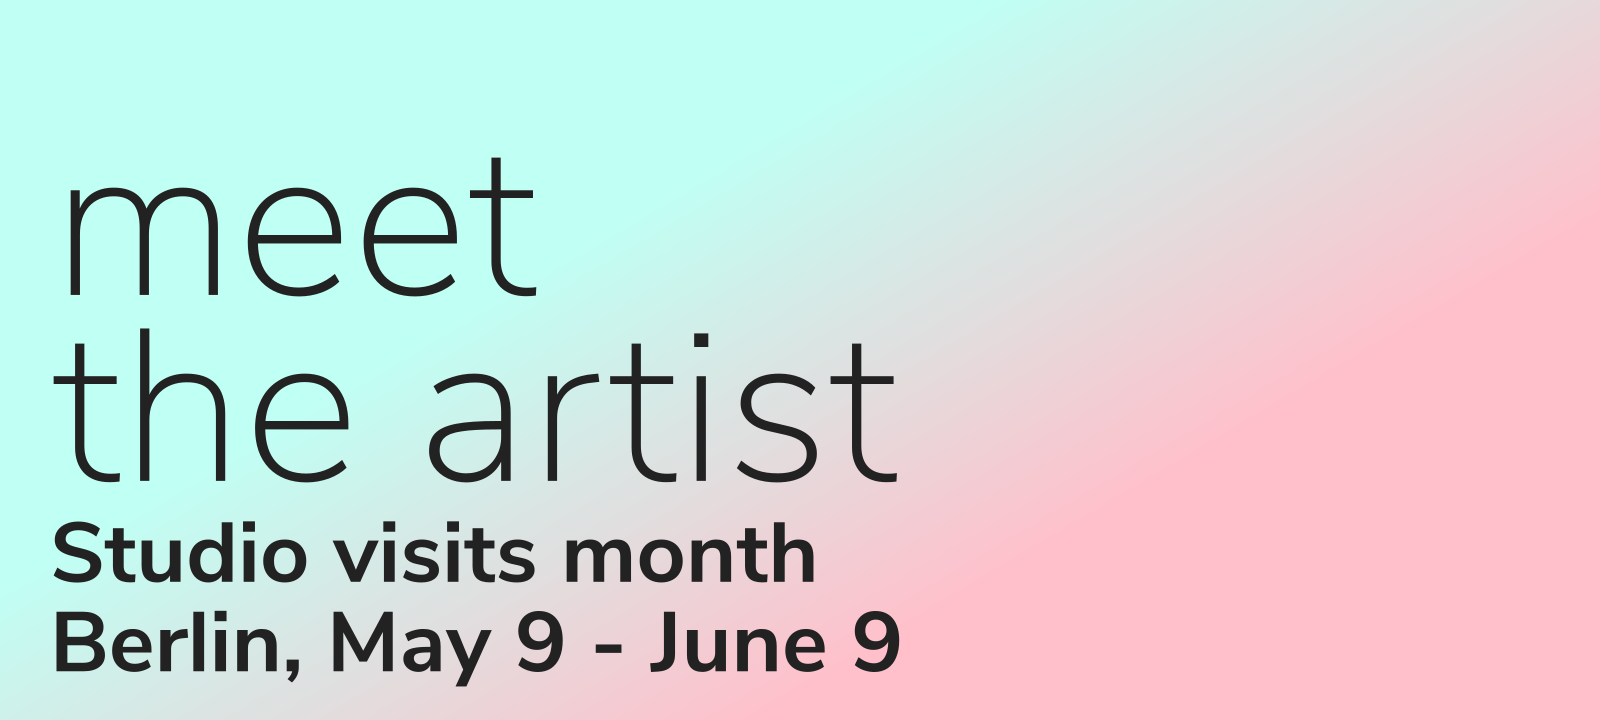
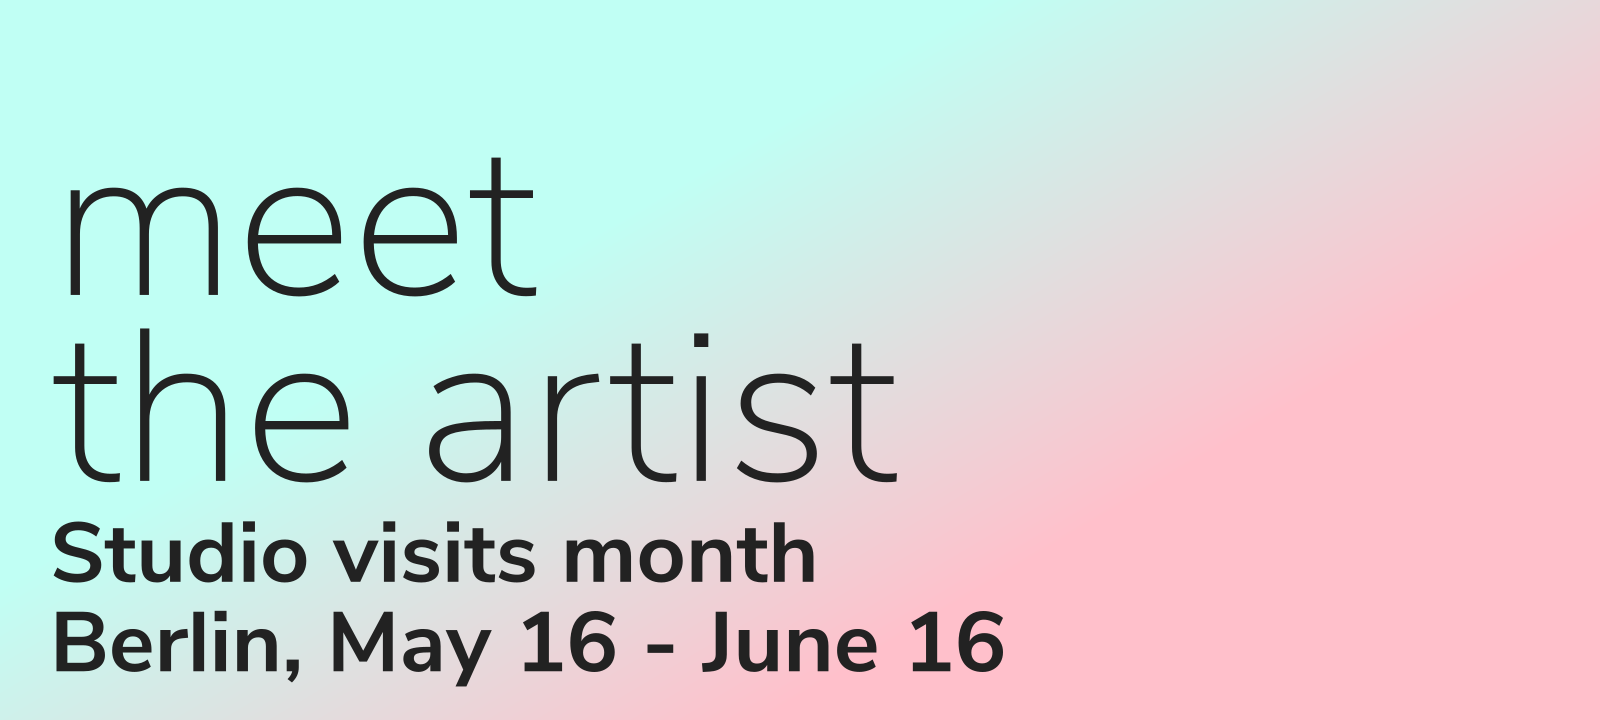
new dates and hasQuery bug fix

Changed region(s): [[0.3125, 0.825, 0.625, 0.9472]]

diff --git a/components/StudiosFilter/index.js b/components/StudiosFilter/index.js
@@ -11,15 +11,15 @@ import styles from "./index.module.scss";
 import StudiosFeatured from "components/StudiosFeatured";
 
 const StudiosFilter = ({ studios }) => {
+  const { hasQuery, searchStudios } = useStudios();
 
-  const { query, searchStudios } = useStudios();
-
-  const [visibleStudios, setVisibleStudios] =
-    useState(query ? searchStudios : studios);
+  const [visibleStudios, setVisibleStudios] = useState(
+    hasQuery ? searchStudios : studios
+  );
 
   useEffect(() => {
-    setVisibleStudios(query ? searchStudios : studios);
-  }, [searchStudios, query]);
+    setVisibleStudios(hasQuery ? searchStudios : studios);
+  }, [searchStudios, hasQuery]);
 
   return (
     <div className={styles.studios}>
@@ -39,12 +39,18 @@ const StudiosFilter = ({ studios }) => {
             columnClassName={styles.masonryGridColumn}
           >
             {visibleStudios.map((studio) => {
-              return <StudioCard studio={studio} key={studio.uuid.slice(0, 3)} />;
+              return (
+                <StudioCard studio={studio} key={studio.uuid.slice(0, 3)} />
+              );
             })}
           </Masonry>
         ) : (
           <>
-            <Text>No studios were found for your search. <br /><br />Update your search terms or explore the studios here.</Text>
+            <Text>
+              No studios were found for your search. <br />
+              <br />
+              Update your search terms or explore the studios here.
+            </Text>
 
             <StudiosFeatured />
           </>

diff --git a/services/studios.js b/services/studios.js
@@ -10,6 +10,7 @@ const StudiosProvider = ({ children }) => {
   const [featuredStudios, setFeaturedStudios] = useState([]);
 
   const [query, setQuery] = useState(emptyQuery);
+  const [hasQuery, setHasQuery] = useState(false);
   const [searchStudios, setSearchStudios] = useState([]);
 
   const [studio, setStudio] = useState(false);
@@ -52,8 +53,10 @@ const StudiosProvider = ({ children }) => {
     setQuery(newQuery);
     if (!newQuery) {
       setSearchStudios(studios);
+      setHasQuery(false);
     } else {
       fetchSearchStudios(newQuery);
+      setHasQuery(true);
     }
   };
 
@@ -152,6 +155,7 @@ const StudiosProvider = ({ children }) => {
     studio,
     userStudio,
     query,
+    hasQuery,
     updateQuery,
     fetchStudios,
     fetchFeaturedStudios,

diff --git a/components/SearchBar/index.js b/components/SearchBar/index.js
@@ -10,7 +10,7 @@ import { Box, TextInput } from "grommet";
 export const SearchBar = ({ isBarFullWidth = false }) => {
   const router = useRouter();
 
-  const { query, updateQuery } = useStudios();
+  const { query, hasQuery, updateQuery } = useStudios();
 
   const [tempQuery, setTempQuery] = useState(query);
 
@@ -84,7 +84,7 @@ export const SearchBar = ({ isBarFullWidth = false }) => {
                   onClick={onSearch}
                 />
               </Box>
-              {!isBarFullWidth && tempQuery.length > 2 && (
+              {hasQuery && !isBarFullWidth && (
                 <Box
                   width="38px"
                   height="38px"

diff --git a/pages/studios/index.js b/pages/studios/index.js
@@ -23,7 +23,7 @@ const Studios = () => {
         <Row id={styles.studio}>
           <Col xs={12} md={12}>
             {/* {error && <strong>Error: {JSON.stringify(error)}</strong>} */}
-            {loading ? (
+            {loading || !studios.length ? (
               <img src={`/img/loader.svg`} />
             ) : (
               <StudiosFilter studios={studios} />

diff --git a/config/calendar.js b/config/calendar.js
@@ -1,4 +1,4 @@
-const Start = "2024-05-03";
-const End = "2024-06-02";
+const Start = "2024-05-16";
+const End = "2024-06-16";
 
 export const calendarBounds = { Start, End };
